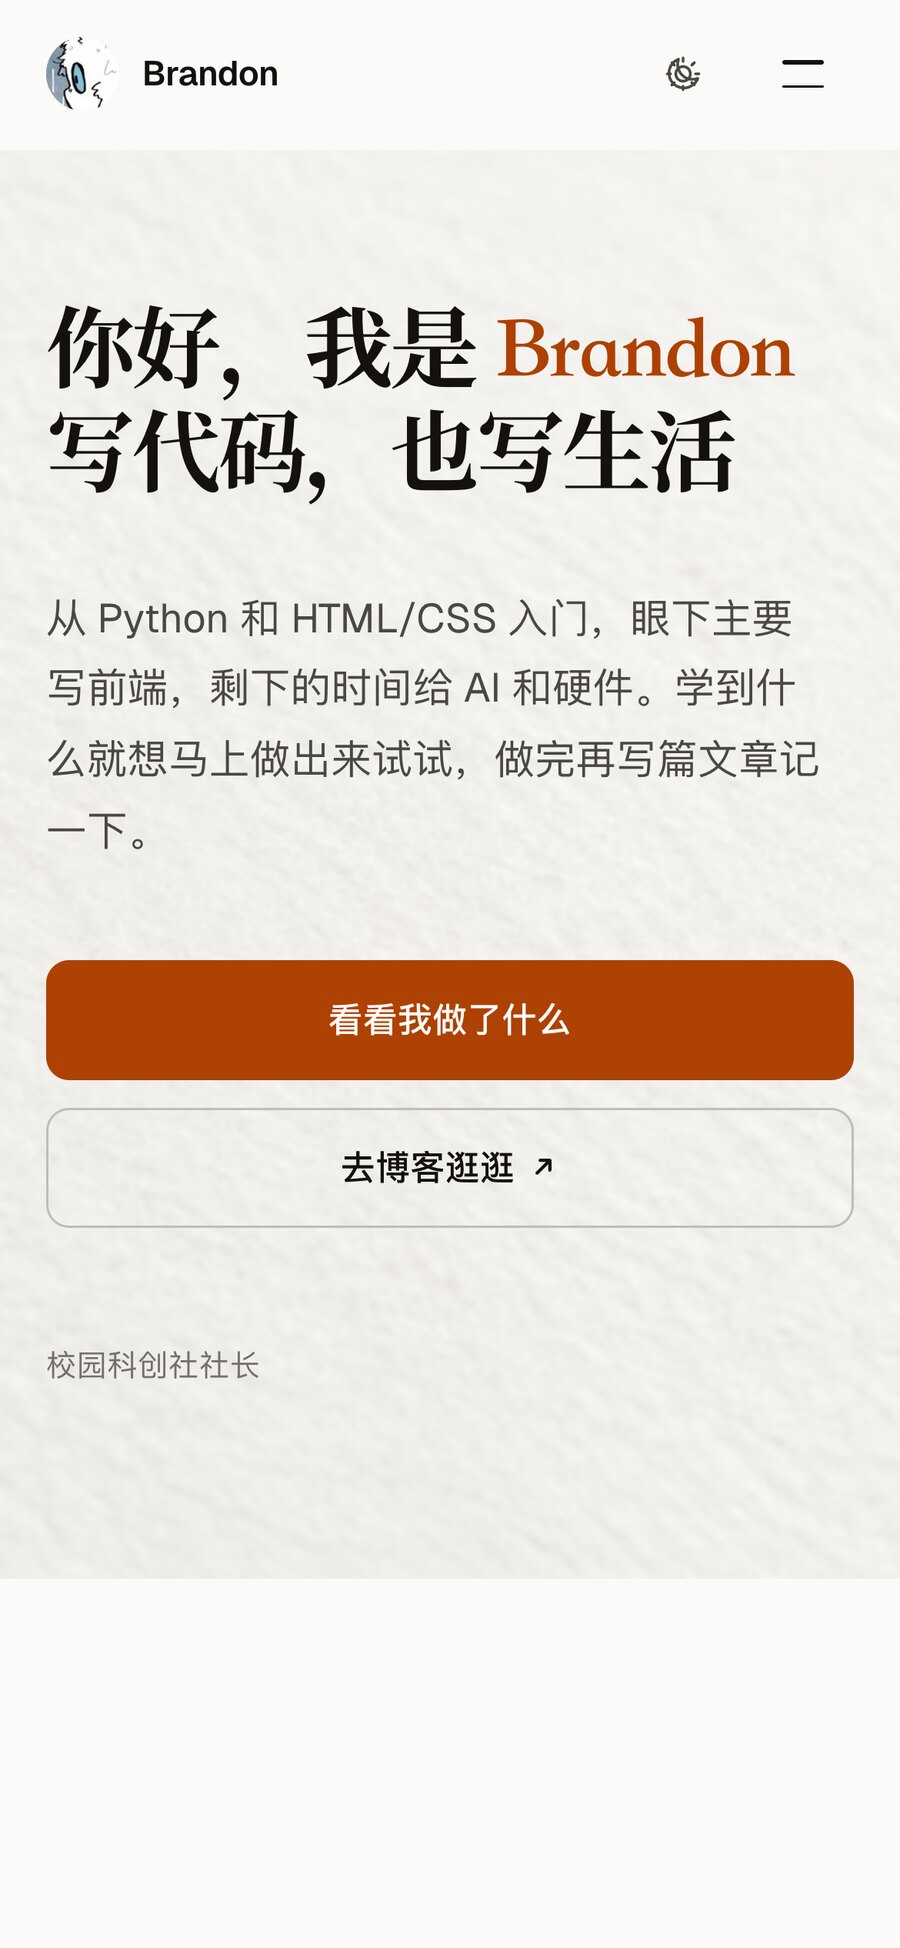
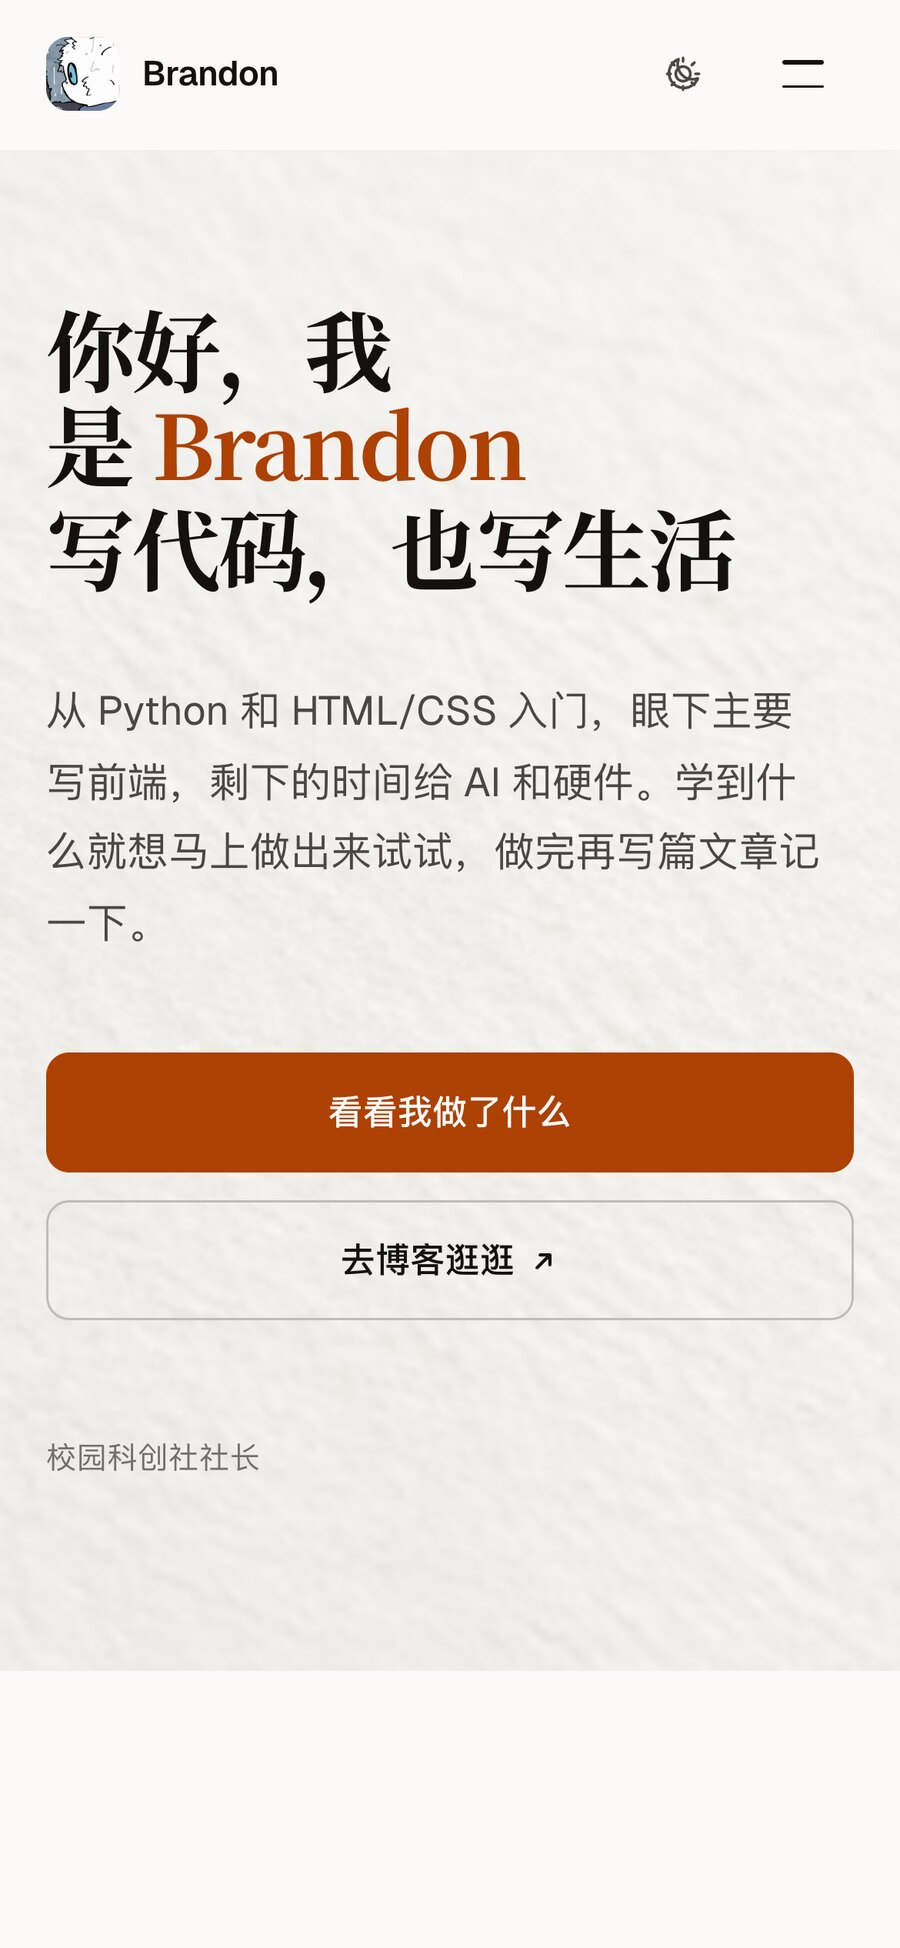
fix: 头像完整显示，改用高清源图
之前用了以脸部为中心裁切的正方形，把插画四角的内容
（左下背包、右下衣领、四周雨丝）切掉了，看着像残缺。

- 页头与关于区统一为方形圆角 + object-fit: contain
- 头像源图换成 cdn.oopss.top/icon.jpg（1080×1080），
  比原先用的 120×120 清晰 9 倍，小尺寸下笔画不糊
- 页头提供 1x/2x/4x 三档，高分屏取更清晰的那张

diff --git a/src/styles/components.css b/src/styles/components.css
@@ -50,11 +50,12 @@
   display: block;
   width: 32px;
   height: 32px;
-  /* 头像本身是方形插画，圆形裁切最稳妥；
-     一圈极淡的描边让它在纸白背景上有轮廓，不会糊掉。 */
-  border-radius: var(--r-full);
-  object-fit: cover;
+  /* 方形圆角，不切成圆——原图是完整构图的插画，圆形会切掉四角内容。
+     圆角比纯方形柔和，又不损失画面。 */
+  border-radius: 30%;
+  object-fit: contain;
   background: var(--surface-2);
+  /* 一圈极淡的描边，让浅色插画在纸白背景上有轮廓 */
   box-shadow: 0 0 0 1px var(--line) inset;
   transition: transform var(--dur-base) var(--ease-out);
 }
@@ -574,10 +575,12 @@
 .about__avatar {
   width: 56px;
   height: 56px;
-  border-radius: var(--r-full);
-  object-fit: cover;
+  /* 与页头保持一致：方形圆角 + contain，完整显示插画不裁切 */
+  border-radius: 26%;
+  object-fit: contain;
   flex-shrink: 0;
   background: var(--surface-2);
+  box-shadow: 0 0 0 1px var(--line) inset;
 }
 
 .about__card figcaption {

diff --git a/README.md b/README.md
@@ -200,7 +200,9 @@ src/
 
 **画布尺寸变化要用 ResizeObserver，不能只监听 window。** 标题字体加载完会重新换行、hero 高度随之变化，这类改变不触发 `window.resize`，只监听 window 会让画布位图比容器高一截（实测差 70px 左右，表现为点阵略微纵向拉伸）。
 
-**左上角用裁切过的头像。** 原图是一张插画，五官明显偏左（眼睛在 34% 处），直接圆形裁切在 32px 下会糊成一团白色。`avatar-mark-64/128` 是以脸部为中心重新裁的正方形，小尺寸下眼睛和轮廓还认得出来，并按 1x/2x 提供。
+**头像完整显示，不做裁切。** 原图是一张完整构图的插画，四角都有内容——左下的背包、右下的衣领、四周的雨丝。圆形裁切会切掉这些，看着像残缺。现在用**方形圆角 + `object-fit: contain`**，页头与关于区一致，并按 1x/2x/4x 提供三档尺寸。
+
+头像源图取自 `cdn.oopss.top/icon.jpg`（1080×1080），比博客包里那份 120×120 的清晰 9 倍，小尺寸下笔画不会糊。
 
 **中文不加载网页字体。** 标题用宋体子集（12 MB → 121 KB，OFL 许可）；正文交给系统字体（PingFang SC / 微软雅黑 / Noto Sans CJK）。正文用宋体会累，用黑体是中文长文的通行做法。
 
